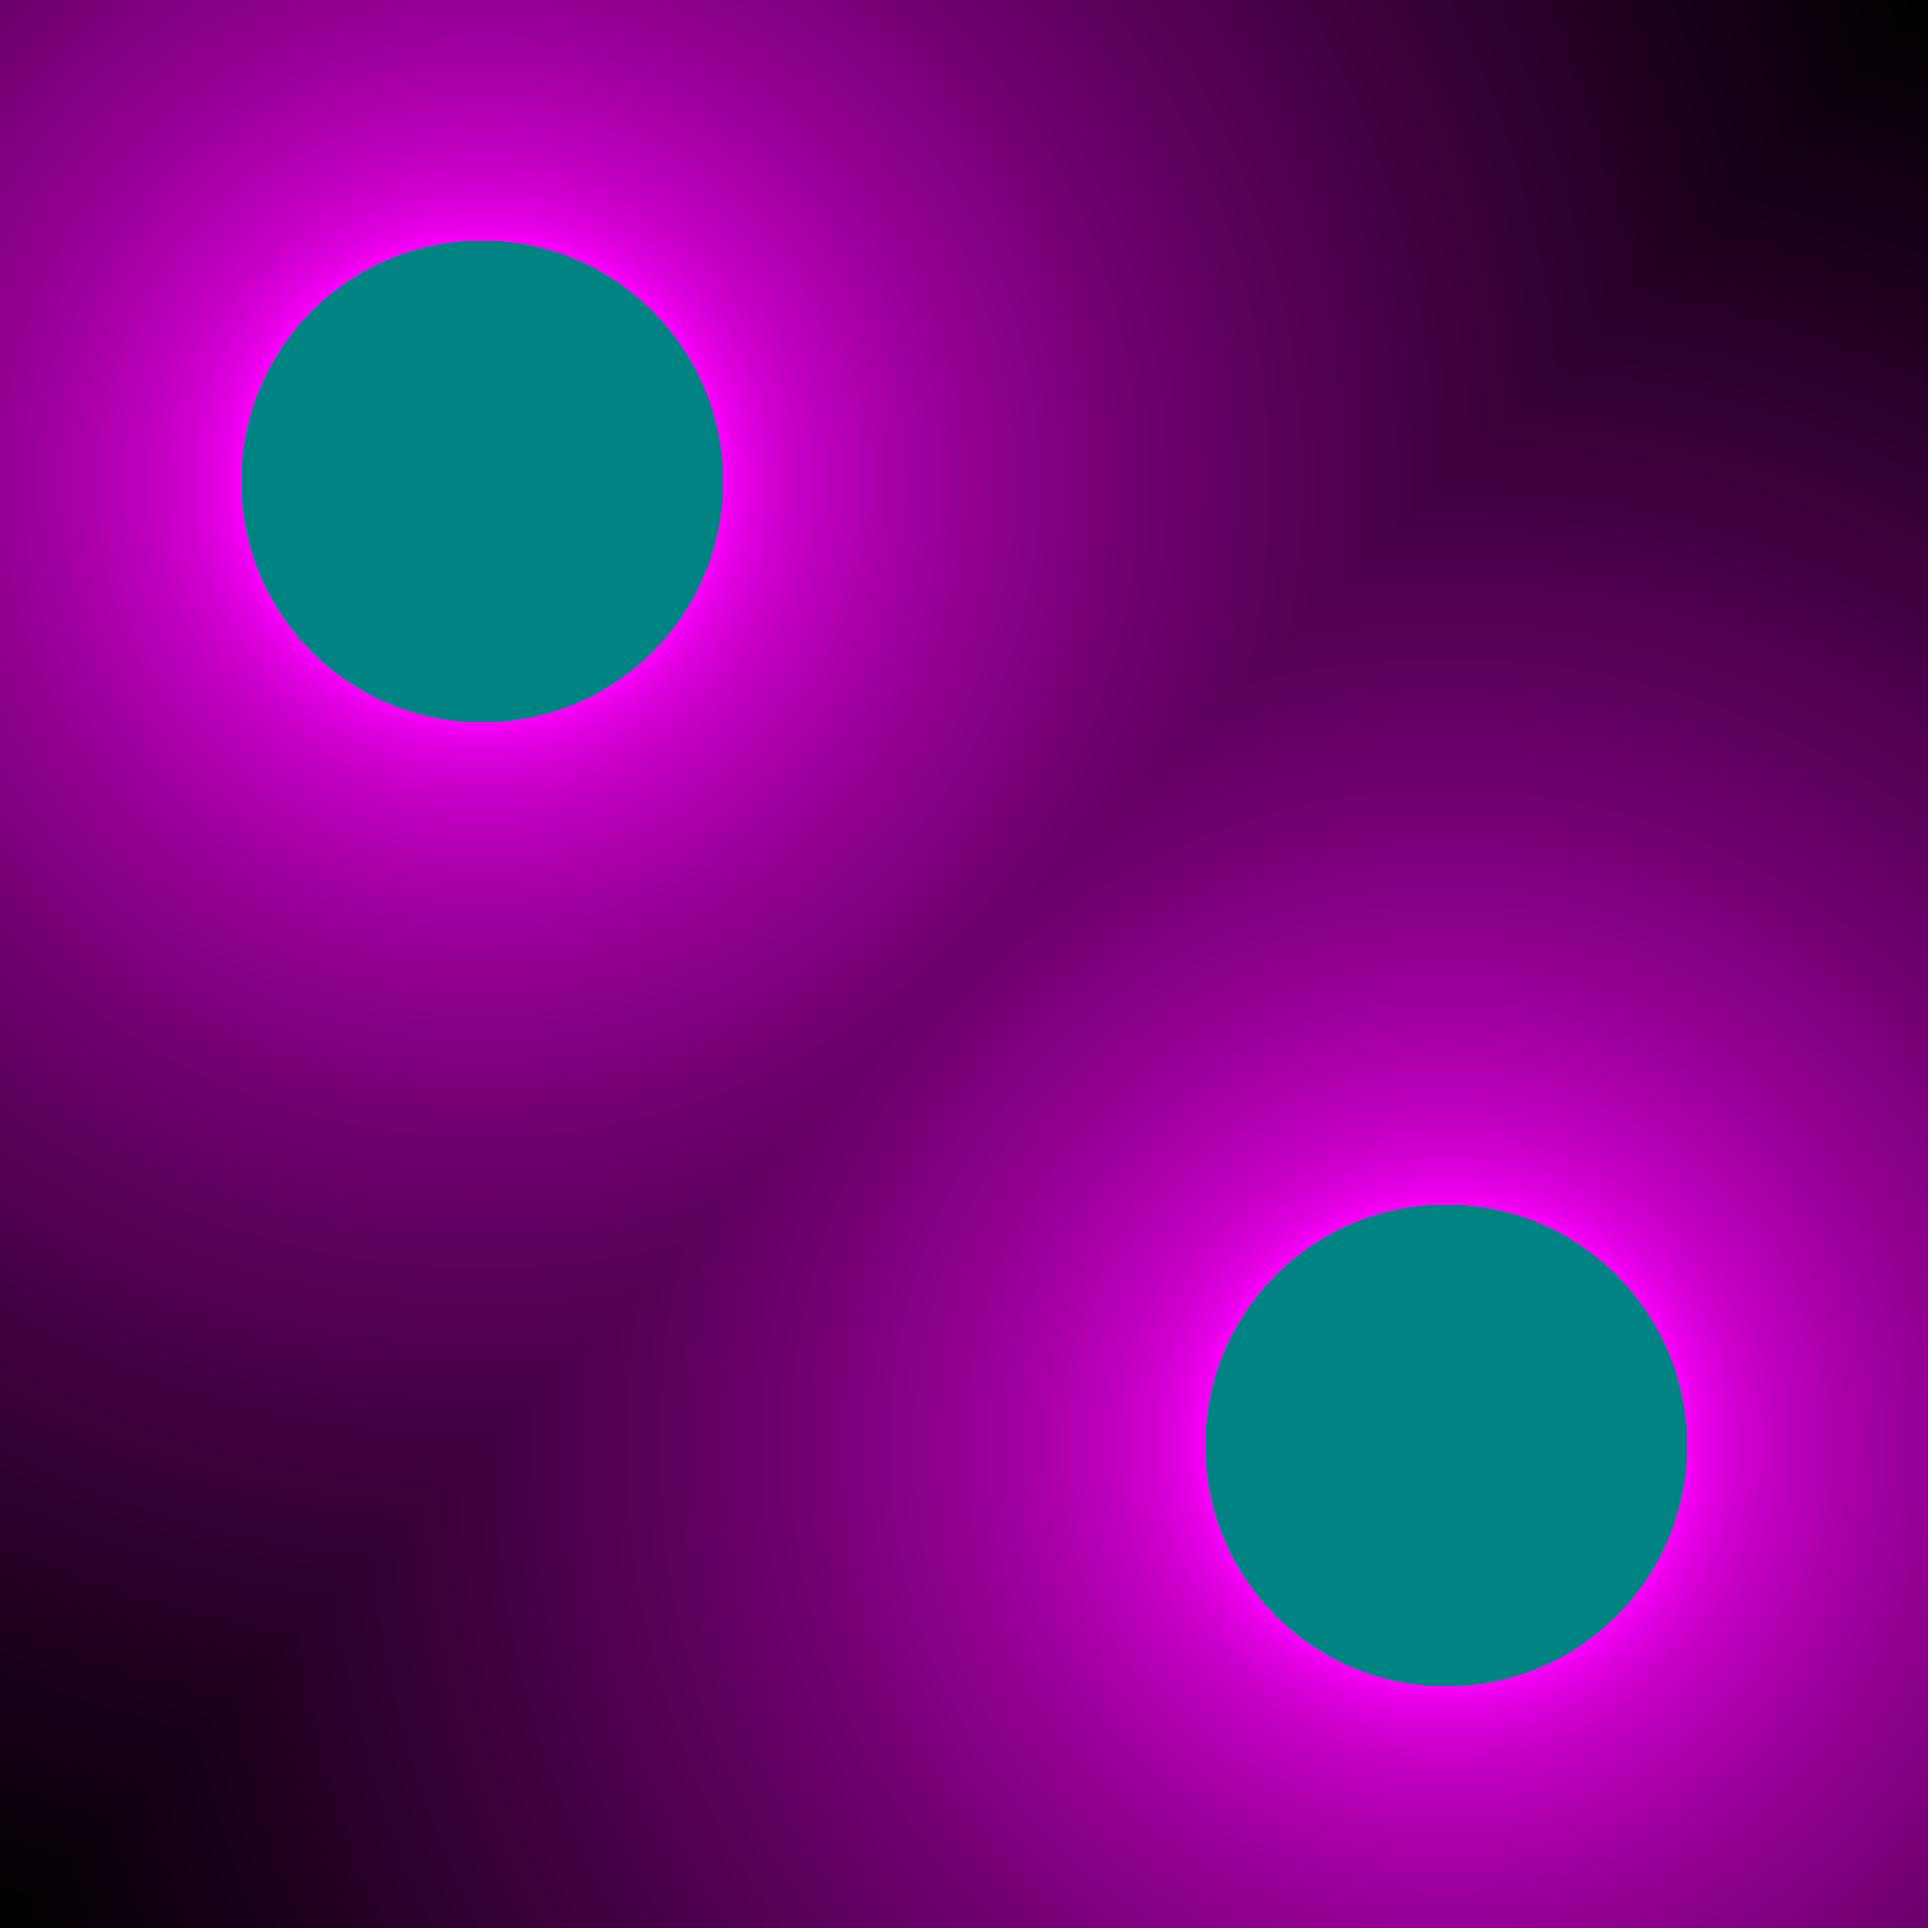
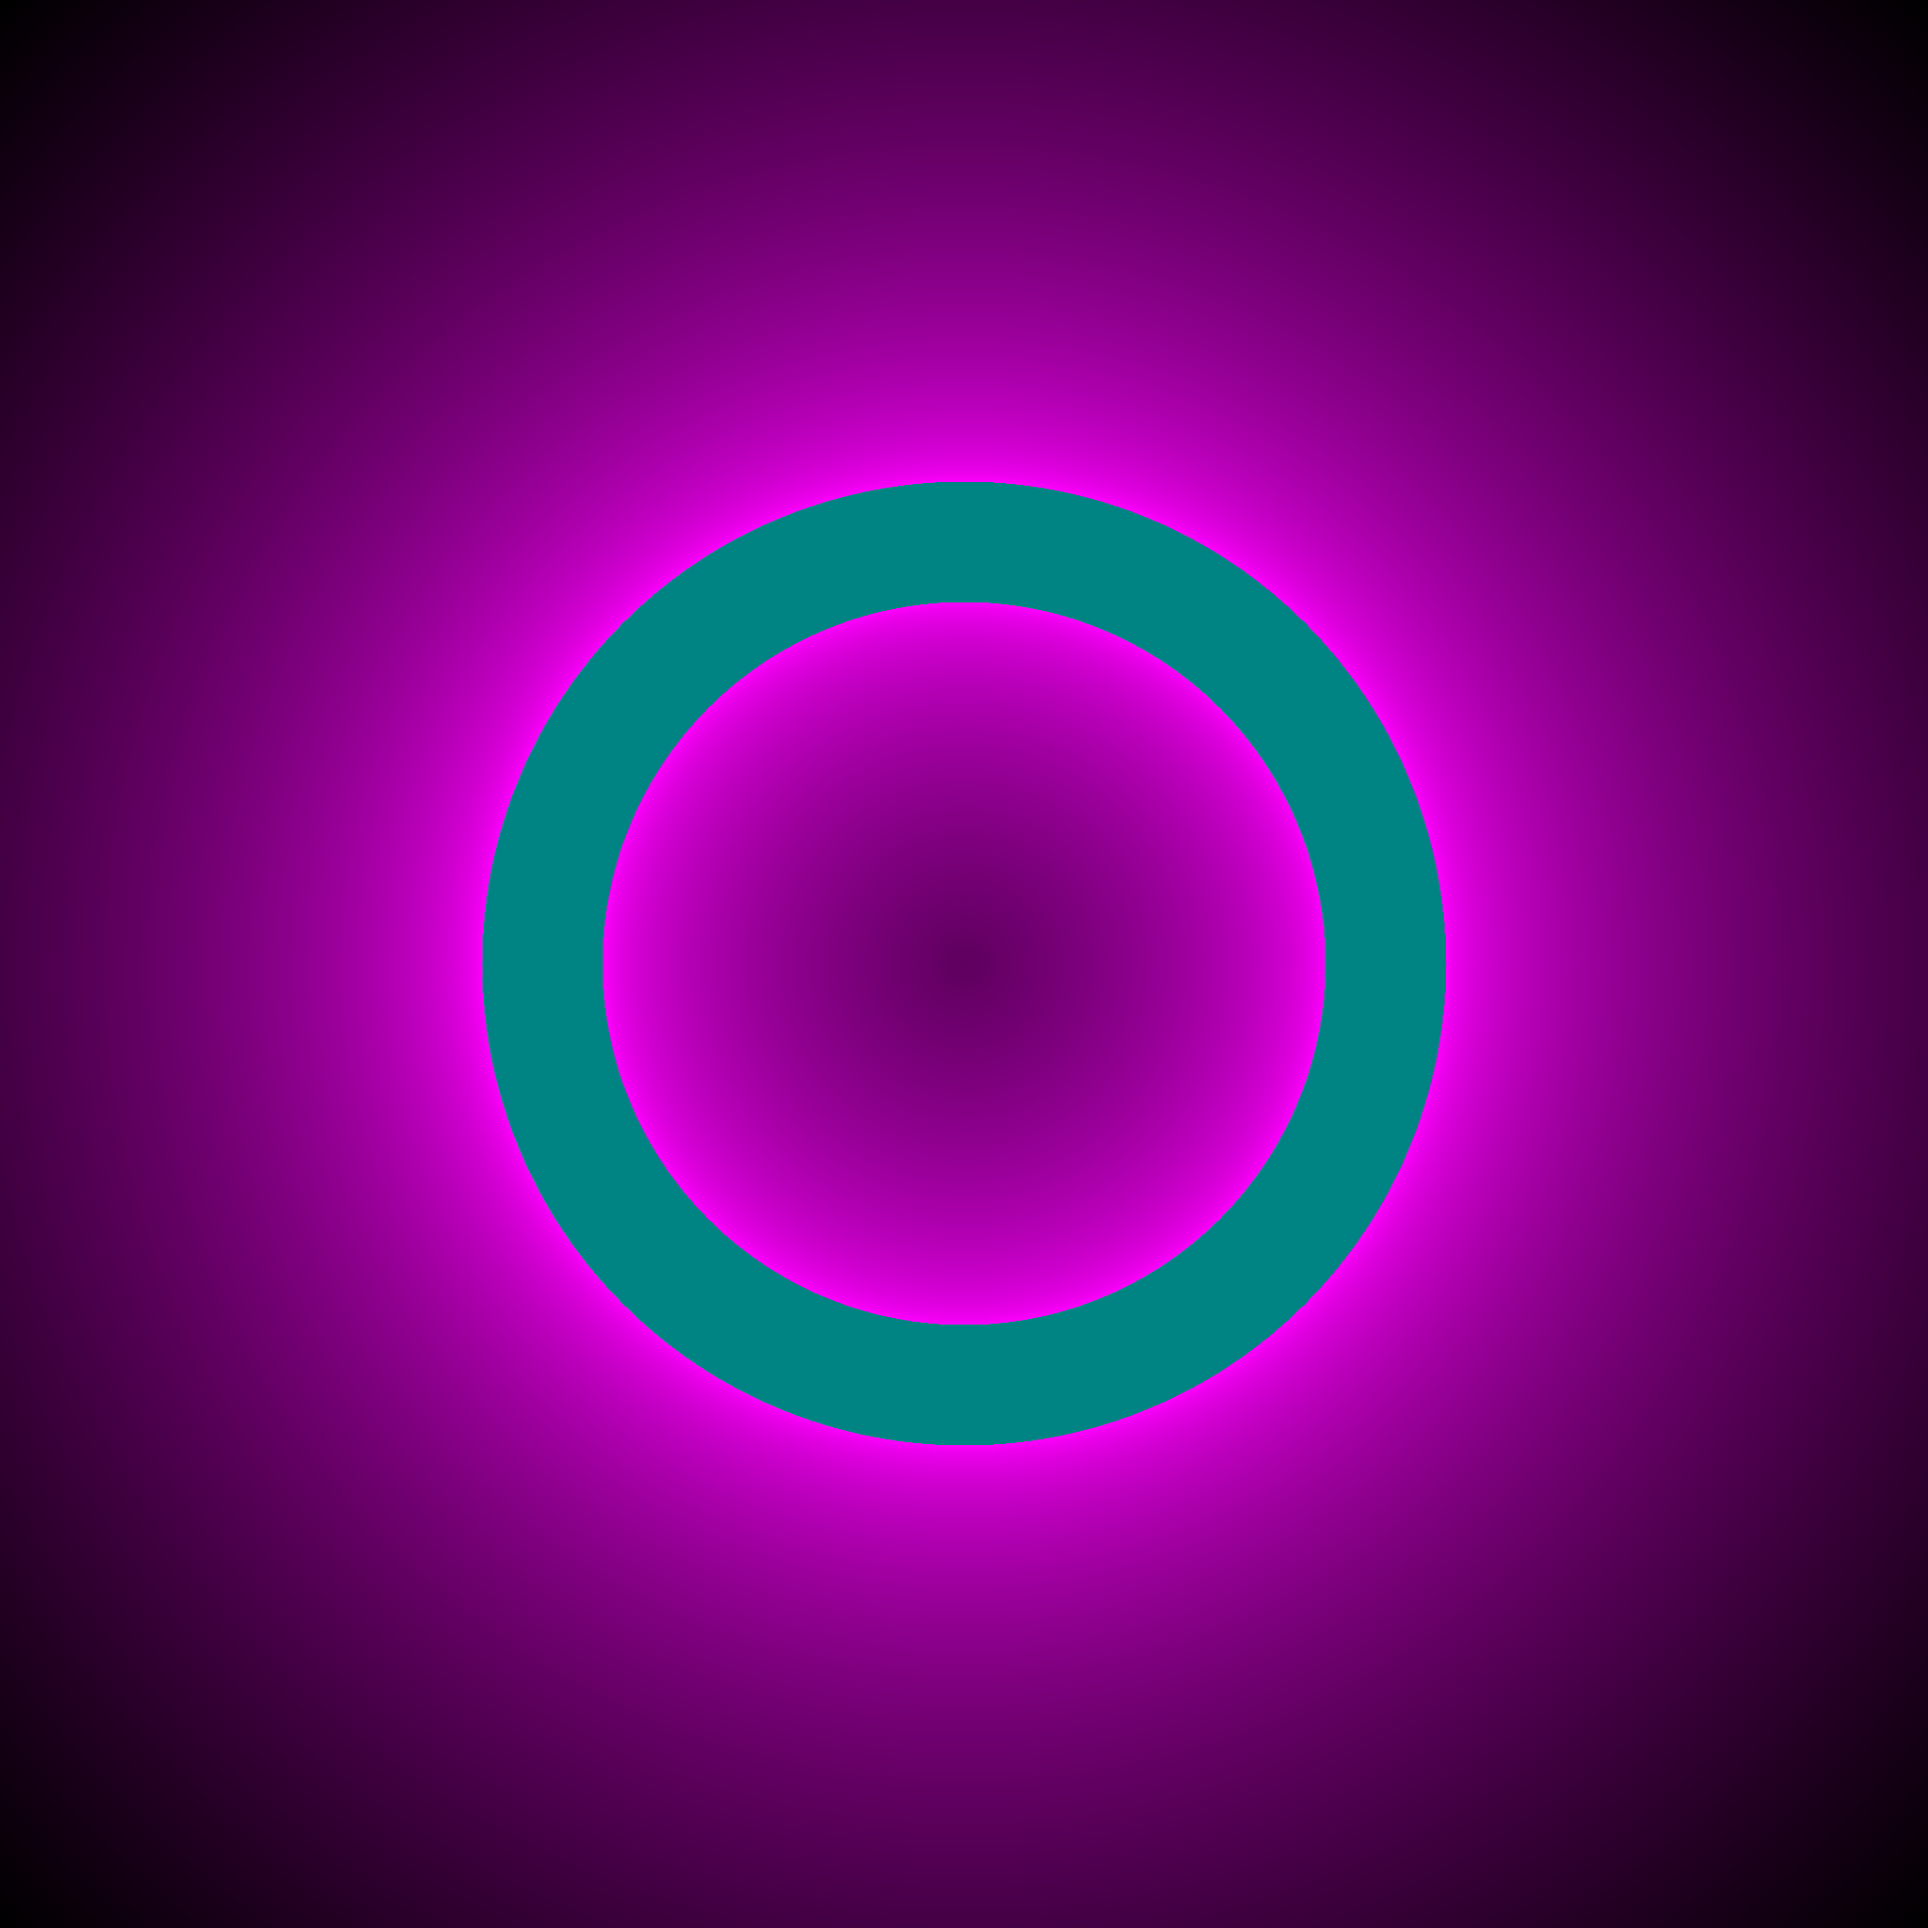
BC produced by cairo graphics

diff --git a/signed-areas/signed-areas.cpp b/signed-areas/signed-areas.cpp
@@ -441,10 +441,11 @@ int main()
     {
         for (int X = 0; X < WIDTH; ++X)
         {
-            if ((X - WIDTH / 4) * (X - WIDTH / 4) + (Y - 3 * HEIGHT / 4) * (Y - 3 * HEIGHT / 4) < WIDTH * WIDTH / 64) distance[Y * WIDTH + X] = 0;
+            if (fld[Y * WIDTH + X] > 0) distance[Y * WIDTH + X] = DIST_MAX; else distance[Y * WIDTH + X] = 0;
+            /*if ((X - WIDTH / 4) * (X - WIDTH / 4) + (Y - 3 * HEIGHT / 4) * (Y - 3 * HEIGHT / 4) < WIDTH * WIDTH / 64) distance[Y * WIDTH + X] = 0;
             if ((X - 3 * WIDTH / 4) * (X - 3 * WIDTH / 4) + (Y - HEIGHT / 4) * (Y - HEIGHT / 4) < WIDTH * WIDTH / 64) distance[Y * WIDTH + X] = 0;
             ////if ((X - WIDTH / 2) * (X - WIDTH / 2) + (Y - HEIGHT / 2) * (Y - HEIGHT / 2) < WIDTH * WIDTH / 64) distance[Y * WIDTH + X] = 0;
-            //if (X > WIDTH / 8 && X < 7 * WIDTH / 8 && Y == HEIGHT / 2) distance[Y * WIDTH + X] = 0;
+            //if (X > WIDTH / 8 && X < 7 * WIDTH / 8 && Y == HEIGHT / 2) distance[Y * WIDTH + X] = 0;*/
         }
     }
 
